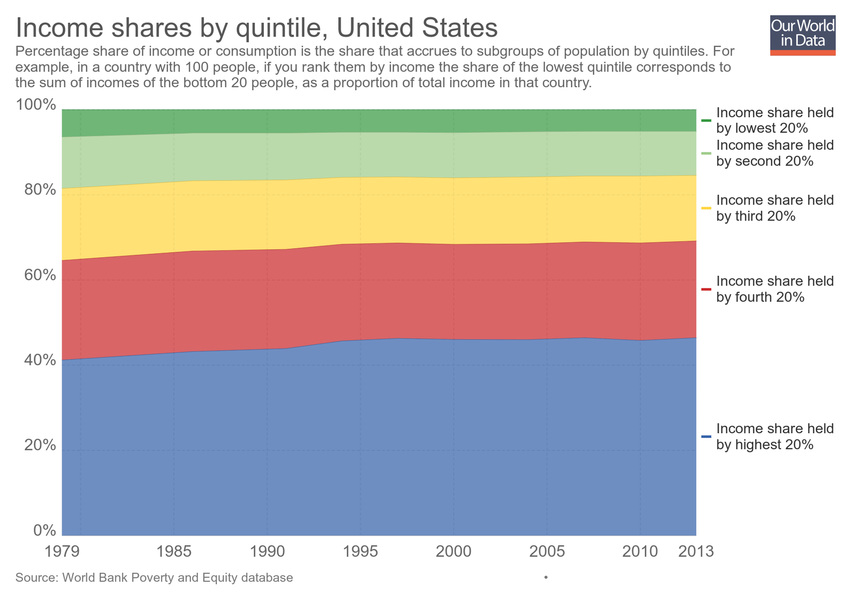
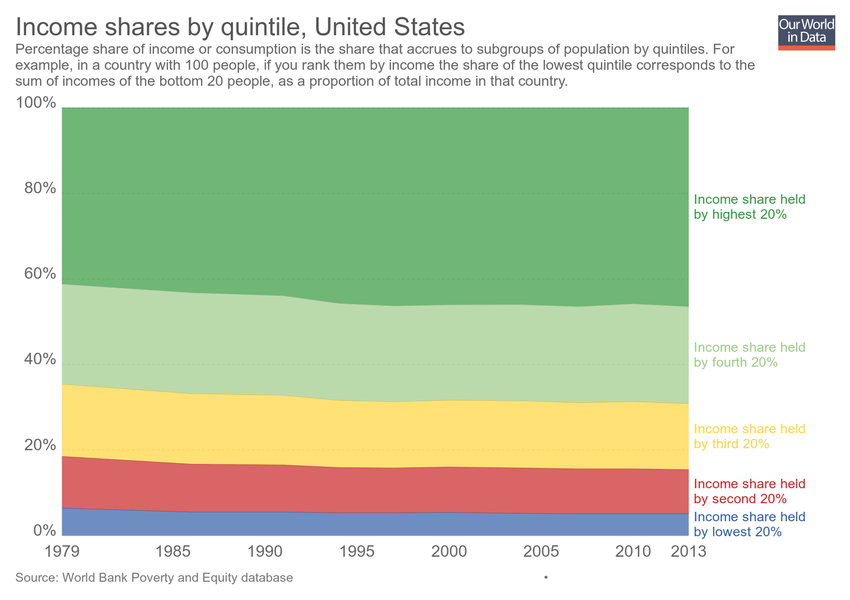
Updating chart income-shares-by-quintile

diff --git a/grapher/income-shares-by-quintile.html b/grapher/income-shares-by-quintile.html
@@ -1,4 +1,4 @@
-<!doctype html><html><head><meta name="viewport" content="width=device-width, initial-scale=1" /><title>Income shares by quintile - Our World in Data</title><meta name="description" content="Percentage share of income or consumption is the share that accrues to subgroups of population by quintiles. For example, in a country with 100 people, if you rank them by income the share of the lowest quintile corresponds to the sum of incomes of the bottom 20 people, as a proportion of total income in that country." /><link rel="canonical" href="https://ourworldindata.org/grapher/income-shares-by-quintile" /><meta property="fb:app_id" content="1149943818390250" /><meta property="og:url" content="https://ourworldindata.org/grapher/income-shares-by-quintile" /><meta property="og:title" content="Income shares by quintile" /><meta property="og:description" content="Percentage share of income or consumption is the share that accrues to subgroups of population by quintiles. For example, in a country with 100 people, if you rank them by income the share of the lowest quintile corresponds to the sum of incomes of the bottom 20 people, as a proportion of total income in that country." /><meta property="og:image" content="https://ourworldindata.org/grapher/exports/income-shares-by-quintile.png?v=1" /><meta property="og:image:width" content="850" /><meta property="og:image:height" content="600" /><meta property="og:site_name" content="Our World in Data" /><meta name="twitter:card" content="summary_large_image" /><meta name="twitter:site" content="@OurWorldInData" /><meta name="twitter:creator" content="@OurWorldInData" /><meta name="twitter:title" content="Income shares by quintile" /><meta name="twitter:description" content="Percentage share of income or consumption is the share that accrues to subgroups of population by quintiles. For example, in a country with 100 people, if you rank them by income the share of the lowest quintile corresponds to the sum of incomes of the bottom 20 people, as a proportion of total income in that country." /><meta name="twitter:image" content="https://ourworldindata.org/grapher/exports/income-shares-by-quintile.png?v=1" /><style>
+<!doctype html><html><head><meta name="viewport" content="width=device-width, initial-scale=1" /><title>Income shares by quintile - Our World in Data</title><meta name="description" content="Percentage share of income or consumption is the share that accrues to subgroups of population by quintiles. For example, in a country with 100 people, if you rank them by income the share of the lowest quintile corresponds to the sum of incomes of the bottom 20 people, as a proportion of total income in that country." /><link rel="canonical" href="https://ourworldindata.org/grapher/income-shares-by-quintile" /><meta property="fb:app_id" content="1149943818390250" /><meta property="og:url" content="https://ourworldindata.org/grapher/income-shares-by-quintile" /><meta property="og:title" content="Income shares by quintile" /><meta property="og:description" content="Percentage share of income or consumption is the share that accrues to subgroups of population by quintiles. For example, in a country with 100 people, if you rank them by income the share of the lowest quintile corresponds to the sum of incomes of the bottom 20 people, as a proportion of total income in that country." /><meta property="og:image" content="https://ourworldindata.org/grapher/exports/income-shares-by-quintile.png?v=2" /><meta property="og:image:width" content="850" /><meta property="og:image:height" content="600" /><meta property="og:site_name" content="Our World in Data" /><meta name="twitter:card" content="summary_large_image" /><meta name="twitter:site" content="@OurWorldInData" /><meta name="twitter:creator" content="@OurWorldInData" /><meta name="twitter:title" content="Income shares by quintile" /><meta name="twitter:description" content="Percentage share of income or consumption is the share that accrues to subgroups of population by quintiles. For example, in a country with 100 people, if you rank them by income the share of the lowest quintile corresponds to the sum of incomes of the bottom 20 people, as a proportion of total income in that country." /><meta name="twitter:image" content="https://ourworldindata.org/grapher/exports/income-shares-by-quintile.png?v=2" /><style>
         html, body {
             height: 100%;
             margin: 0;
@@ -20,8 +20,8 @@
         }
     </style><noscript><style>
                     figure { display: none !important; }
-                </style></noscript><link rel="stylesheet" href="https://ourworldindata.org/grapher/assets/commons.bundle.dcbbe53805c487d5e57617b10ac73a8a.css" /><link rel="preload" href="/grapher/data/variables/45102+45103+45104+45098+45100.json?v=1" as="fetch" crossorigin /></head><body class="singleChart"><figure data-grapher-src="/grapher/income-shares-by-quintile"></figure><noscript id="fallback"><img src="/grapher/exports/income-shares-by-quintile.svg" /><p>Interactive visualization requires JavaScript</p></noscript><script src="https://cdn.polyfill.io/v2/polyfill.min.js?features=es6,fetch"></script><script src="https://ourworldindata.org/grapher/assets/commons.bundle.43d139222ef978d52c09.js"></script><script src="https://ourworldindata.org/grapher/assets/charts.bundle.43d139222ef978d52c09.js"></script><script>
-        var jsonConfig = {"id":1826,"map":{"projection":"World","colorSchemeLabels":[],"colorSchemeValues":[],"defaultProjection":"World","colorSchemeMinValue":0,"customNumericColors":[],"customCategoryColors":{},"customCategoryLabels":{},"customHiddenCategories":{}},"tab":"chart","slug":"income-shares-by-quintile","type":"StackedArea","title":"Income shares by quintile","xAxis":{"scaleType":"linear"},"yAxis":{"scaleType":"linear"},"version":1,"subtitle":"Percentage share of income or consumption is the share that accrues to subgroups of population by quintiles. For example, in a country with 100 people, if you rank them by income the share of the lowest quintile corresponds to the sum of incomes of the bottom 20 people, as a proportion of total income in that country.","hasMapTab":false,"originUrl":"https://ourworldindata.org/income-inequality/","stackMode":"relative","dimensions":[{"display":{},"property":"y","variableId":45102},{"display":{},"property":"y","variableId":45103},{"display":{},"property":"y","variableId":45104},{"display":{},"property":"y","variableId":45098},{"display":{},"property":"y","variableId":45100}],"isAutoSlug":true,"sourceDesc":"World Bank Poverty and Equity database","hasChartTab":true,"isPublished":true,"selectedData":[{"index":0,"entityId":13},{"index":1,"entityId":13},{"index":2,"entityId":13},{"index":3,"entityId":13},{"index":4,"entityId":13}],"addCountryMode":"change-country","hideRelativeToggle":true};
+                </style></noscript><link rel="stylesheet" href="https://ourworldindata.org/grapher/assets/commons.bundle.dcbbe53805c487d5e57617b10ac73a8a.css" /><link rel="preload" href="/grapher/data/variables/45102+45103+45104+45098+45100.json?v=2" as="fetch" crossorigin /></head><body class="singleChart"><figure data-grapher-src="/grapher/income-shares-by-quintile"></figure><noscript id="fallback"><img src="/grapher/exports/income-shares-by-quintile.svg" /><p>Interactive visualization requires JavaScript</p></noscript><script src="https://cdn.polyfill.io/v2/polyfill.min.js?features=es6,fetch"></script><script src="https://ourworldindata.org/grapher/assets/commons.bundle.43d139222ef978d52c09.js"></script><script src="https://ourworldindata.org/grapher/assets/charts.bundle.43d139222ef978d52c09.js"></script><script>
+        var jsonConfig = {"id":1826,"map":{"projection":"World","colorSchemeLabels":[],"colorSchemeValues":[],"colorSchemeMinValue":0,"customNumericColors":[],"customCategoryColors":{},"customCategoryLabels":{},"customHiddenCategories":{}},"tab":"chart","slug":"income-shares-by-quintile","type":"StackedArea","title":"Income shares by quintile","xAxis":{"scaleType":"linear"},"yAxis":{"scaleType":"linear"},"version":2,"subtitle":"Percentage share of income or consumption is the share that accrues to subgroups of population by quintiles. For example, in a country with 100 people, if you rank them by income the share of the lowest quintile corresponds to the sum of incomes of the bottom 20 people, as a proportion of total income in that country.","hasMapTab":false,"originUrl":"https://ourworldindata.org/income-inequality/","stackMode":"relative","dimensions":[{"display":{},"property":"y","variableId":45102},{"display":{},"property":"y","variableId":45103},{"display":{},"property":"y","variableId":45104},{"display":{},"property":"y","variableId":45098},{"display":{},"property":"y","variableId":45100}],"sourceDesc":"World Bank Poverty and Equity database","hasChartTab":true,"isPublished":true,"selectedData":[{"index":4,"entityId":13},{"index":3,"entityId":13},{"index":2,"entityId":13},{"index":1,"entityId":13},{"index":0,"entityId":13}],"addCountryMode":"change-country","hideRelativeToggle":true};
         var figure = document.getElementsByTagName("figure")[0];
         try {
             window.App = {};
